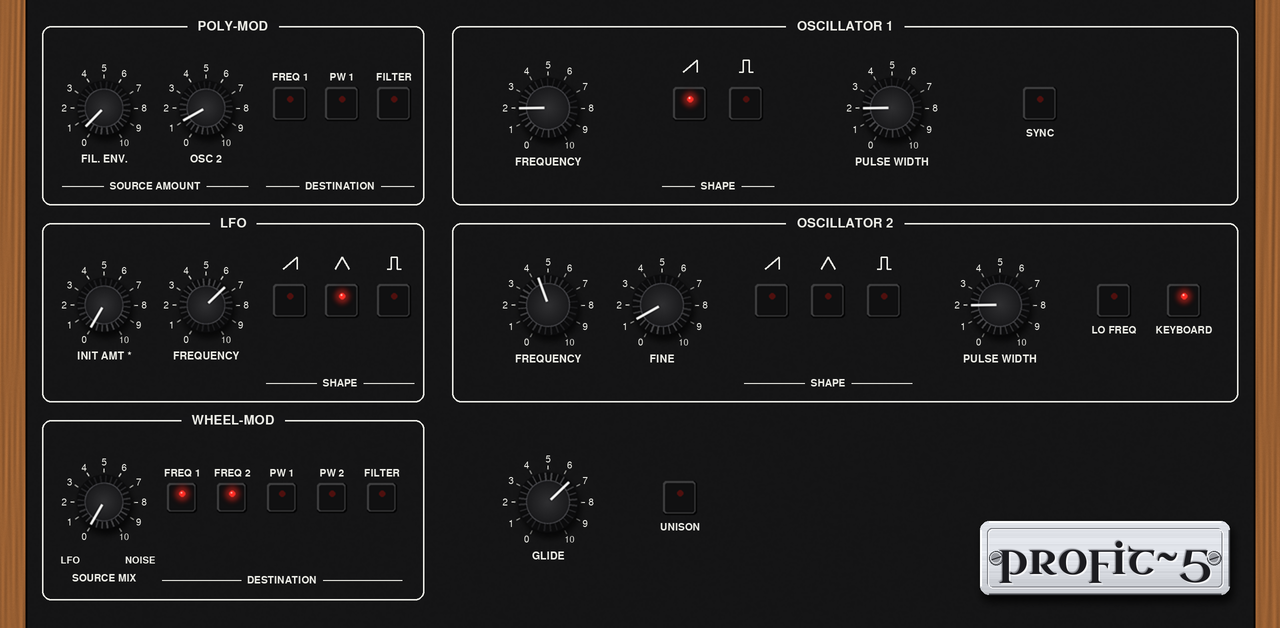
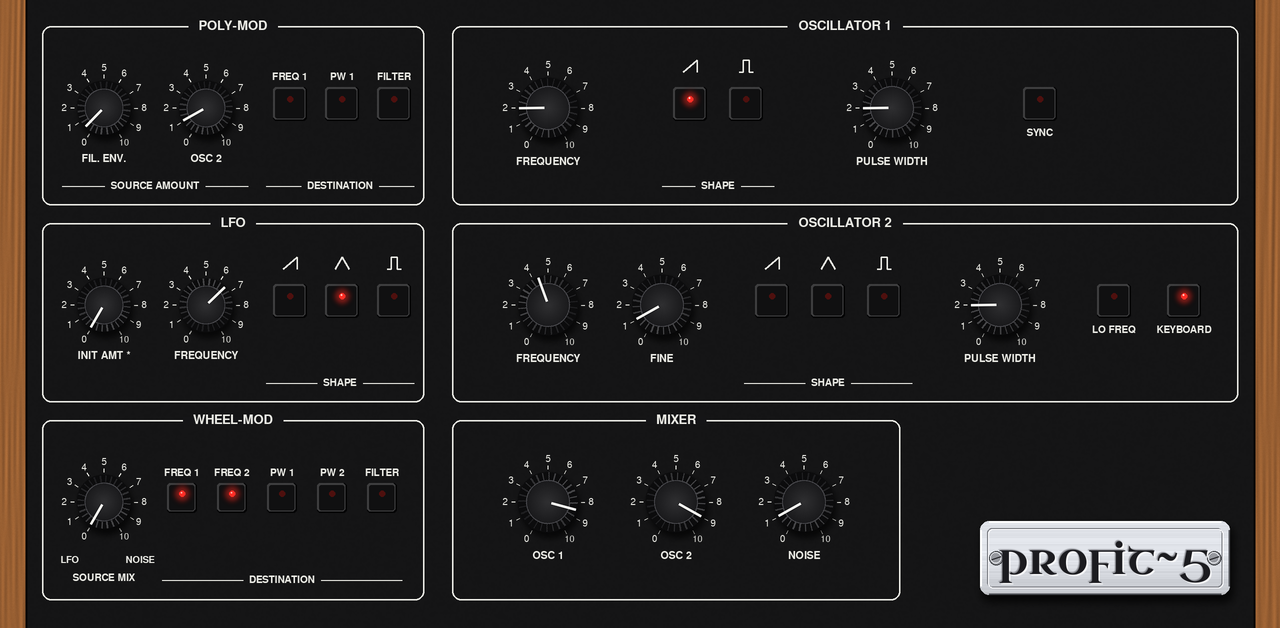
Profit-5 2.0.0: README, release notes, catalog packaging
README: what's new in 2.0 (native screen, Q-Links on every page, named
favourites), status, both install routes, new screenshots, build steps.
docs/release-notes-2.0.0.md. tools/package_catalog.sh makes the two per-CPU
catalog zips with release.py: same folder and .so name as 0.x so the installer
upgrades in place, banks/ and profit5-favourites.dat kept as user data.

Claude-Session: https://claude.ai/code/session_01V7tb5xpYqhNhzXcoof1YZA

diff --git a/tools/make_tui.py b/tools/make_tui.py
@@ -1,5 +1,5 @@
 #!/usr/bin/env python3
-"""Profit-5's native MPC skin: skins/TUI.json + skins/Q-Links.json + the PNGs they use (docs/SDK-PORTING.md, after Welle's layout_tab).
+"""Profit-5's native MPC skin: skins/TUI.json + skins/Q-Links.json + the PNGs they use (after Welle's layout_tab).
 
 The pages are the 0.2.1 skin's own art (vst/art/, drawn by skin/make_skin.py: panel pages, 128-frame knob strips, on/off switch caps)
 with live widgets at the positions vst/layout.conf gives them (layout y = screen y + 86). Three tabs as before; Q-Links in blocks of
@@ -407,7 +407,7 @@ def render_preview(p, bgname, rects_by_sub):
                 txt = "Lead 2_" if key == "fav_name" else p.sample.get(key, "")
                 left = "left" in k["componentData"]["data"].get("textStyle", {}).get("justification", "")
                 d.text((x if left else x + w / 2, y + h / 2), txt, font=font(22 if typ == "Label" else 30), fill=(234, 234, 228), anchor="lm" if left else "mm")
-        for r in rects:
+        for r in ([] if os.environ.get("P5_PREVIEW_CLEAN") else rects):   # P5_PREVIEW_CLEAN=1: no Q-Link frames (README pictures)
             d.rectangle(r, outline=(255, 46, 38), width=2)
         outs.append((subname, img))
     return outs

diff --git a/README.md b/README.md
@@ -6,23 +6,37 @@ a four-pole resonant lowpass, Poly-Mod, a wheel-mod section with LFO and noise, 
 1978 patch sheets. One switch changes the whole voicing between **Rev 2** (SSM chips, stepped controls) and **Rev 4** (CEM-style,
 smooth controls, velocity and aftertouch).
 
-![The Oscillators tab, Rev 2 look](docs/img/skin-rev2-osc.png)
+![Profit-5 on an MPC: the Oscillators page](docs/img/screenshot-osc.png)
 
-**Status: version 0.1.0, a test build.** It builds, passes the offline host test and its own engine, preset and circuit tests, and it loads, plays and
-shows its skin on a Force (2026-10-21, device). CPU on a Force (Gen1, `bench.sh`, 2026-10-21): about 28 % of one core at five voices, p99 31 %, a
-**WARN**: use a few instances, not a dozen. It has not been tried on other models, and many of the knob response
-laws are still measured guesses (see "What is measured, and what isn't"). Expect to hear the character, not a calibrated copy.
+| | |
+|---|---|
+| ![Filter and amplifier](docs/img/screenshot-filter.png) | ![Programmer: programs, imports and favourites](docs/img/screenshot-program.png) |
+
+## New in 2.0
+- **Native MPC screen:** the three panel pages (Oscillators, Filter Amp, Programmer), redrawn with the mixer next to the oscillators and Glide and Unison
+  on the filter page. Knobs, switches and LEDs are live on the panel.
+- **Q-Links on every page:** six sub-tabs in groups of four that follow the panel rows; press a tab key again for its next sub-tab.
+- **Favourites:** `+FAV` names and stores the current sound on an on-screen keyboard; it appears in the MPC's PRESET menu after the programs as
+  `F01 <name>` and is kept in `profit5-favourites.dat`, shared by every project. `-FAV` deletes the one that is picked.
+- **Programmer page:** the program name takes the data wheel and a Q-Link, with step keys either side.
+- One zip carries the 32-bit (Force) and 64-bit builds. Projects saved with 0.1.x and 0.2.x load with their sound, and imported Repro-5 patches stay where they were.
+
+**Status: 2.0.0.** Tested on a Live III (all pages, Q-Links, programs, favourites and naming, sound). Not yet tested: the Force with this version, a real
+project saved with 0.2.1 (old project data is covered by the offline tests), and saving and reloading a 2.0 project on the device. Many knob response
+laws are still measured guesses (see "What is measured, and what isn't"): expect the character, not a calibrated copy.
+
+![Naming a favourite](docs/img/screenshot-keyboard.png)
 
 *Profit-5 is an independent project, not affiliated with or endorsed by Sequential or Dave Smith Instruments. It contains no firmware,
 ROM image, manual, schematic, patch-sheet scan or photograph: everything in it is code and generated art. The patch names are the factory
 program names as published in the patch-sheet booklet; their knob settings were read by hand.*
 
-## Importing Repro-5 patches (0.2.0)
-Put u-he Repro-5 `.h2p` patch files, or `.zip` files of them, in the plugin's `banks` folder (`/sdcard/Synths/sd88me - VST - Profit-5/banks/`;
-the installer keeps it when you upgrade). The plugin reads them once when it loads, so **reload the plugin after adding files**. They are sorted
+## Importing Repro-5 patches
+Put u-he Repro-5 `.h2p` patch files, or `.zip` files of them, in the `banks` folder inside the plugin's folder (the installer keeps it when you
+upgrade). The plugin reads them once when it loads, so **reload the plugin after adding files**. They are sorted
 by file name and join the program list: slots 1-38 are the factory sheets, then `U01`-`U90` are the imported patches (named after the file), then
-free slots named `U.. Init`. The PRESET menu, the arrows on the PROGRAM tab (which show the name), the data wheel, a Q-Link and MIDI program change
-(0-127) all pick from the same list. A status line on the PROGRAM tab says how many were found. Loose files are only read in the banks folder
+free slots named `U.. Init`, then your favourites. The PRESET menu, the step keys and data wheel on the Programmer page, a Q-Link and MIDI program change
+(0-127) all pick from the same list. The Programmer page says how many were found. Loose files are only read in the banks folder
 itself (no sub-folders), a zip may contain folders. The patches are yours: none ships with the plugin.
 
 What carries over: oscillator pitch and shapes, pulse widths, sync, mix, the filter (cutoff, resonance, key tracking as off / half / full),
@@ -36,14 +50,13 @@ and quality stay as you set them. `.syx` dumps are not read yet.
 
 ## Install
 
-Requires a **modded MPC OS standalone device with root shell (SSH) access**; stock MPC OS doesn't allow installing plugins this way, and doing so is
-unofficial: back up first and use at your own risk. MPC OS 3.x (the skin format).
+- **Plugin Manager:** install or update **Profit-5** from the catalog in the Open MPC Plugin Manager.
+- **By hand** (a modded MPC OS device with SSH access; unofficial, back up first and use at your own risk): download the zip for your device from the
+  [releases](https://github.com/sd88me/mpc-vst-profit5/releases), `-mpc-armv7.zip` for the Force and 32-bit MPCs or `-mpc-aarch64.zip` for 64-bit MPCs
+  such as the Live III. Unzip it, copy the folder to the device (`scp -r Profit-5-2.0.0 root@<device-ip>:/tmp/`) and run
+  `ssh root@<device-ip> sh /tmp/Profit-5-2.0.0/install.sh`. Save your project first: the installer stops and restarts MPC. `INSTALL.txt` in the zip has the details.
 
-1. Download the zip for your device from the [releases](https://github.com/sd88me/mpc-vst-profit5/releases): `-mpc-armv7.zip` for Gen1
-   (Force, MPC Live / One / X / Key) and `-mpc-aarch64.zip` for Gen2 (**Gen2 is untested**).
-2. Unzip, copy the folder to the device (`scp -r Profit-5-0.1.0 root@<device-ip>:/tmp/`) and run `ssh root@<device-ip> sh /tmp/Profit-5-0.1.0/install.sh`.
-   Save your project first: the installer stops MPC, copies the plugin into `/sdcard/Synths`, backs up `MPC.settings`, adds the plugin to the list and restarts MPC.
-3. Add **Profit-5** to a track from the instrument plugin browser. `INSTALL.md` in the zip has the manual steps too.
+Then add **Profit-5** to a track from the plugin browser. Upgrading keeps your `banks` folder and favourites; old projects keep their sound.
 
 ## What you get
 
@@ -56,7 +69,7 @@ unofficial: back up first and use at your own risk. MPC OS 3.x (the skin format)
 - **Filter and amplifier:** cutoff, resonance, envelope amount, keyboard tracking, and a four-stage ADSR for each.
 - **Glide** and **master tune**, pitch bend, mod wheel, sustain pedal and program change.
 - **38 factory programs** (banks 1-4 and 5-1 to 5-6 of the original set), in MPC's PRESET menu and on the Program knob.
-- **Three screen tabs** with real-panel layout, printed 0-10 scales and 128-step knob pictures, and seven Q-Link pages.
+- **Three screen pages** with real-panel layout, printed 0-10 scales and 128-step knob pictures, six Q-Link sub-tabs, and favourites in the PRESET menu.
 
 ### Rev 2 and Rev 4
 
@@ -115,7 +128,7 @@ Honest status, offline on x86 (2026-10-21):
 - **Still guessed:** the start of the envelope and LFO ranges, the cutoff span, resonance law, Poly-Mod and Wheel-Mod depths, and a few summing-amp inputs the
   scan doesn't show. Rev 4 is modelled from public descriptions, not from a unit or its schematics.
 - **Known quiet program:** 5-5 Helicopter barely sounds in a short test (its amplifier attack is about 14 s under the datasheet law). To check against a recording.
-- **Not done:** device test and bench, a cassette-dump and `.syx` importer, a second output. A recording of a real unit would let me fit most of the guessed laws.
+- **Not done:** a cassette-dump and `.syx` importer, a second output. A recording of a real unit would let me fit most of the guessed laws.
 
 What's next is in [`docs/HANDOFF.md`](docs/HANDOFF.md). All of this is written up, with the evidence, in [`docs/ENGINE.md`](docs/ENGINE.md), [`docs/FIRMWARE.md`](docs/FIRMWARE.md) and
 [`docs/PRESETS.md`](docs/PRESETS.md).
@@ -124,13 +137,18 @@ What's next is in [`docs/HANDOFF.md`](docs/HANDOFF.md). All of this is written u
 
 | Tab | Contents |
 |---|---|
-| **Oscillators** | Poly-Mod (filter envelope, osc 2, three destinations), LFO (initial amount, frequency, three shapes), Wheel-Mod (source mix, five destinations), oscillator 1 and 2, glide, unison |
-| **Filter Amp** | Mixer, filter (cutoff, resonance, envelope amount, keyboard tracking, half/full, ADSR), amplifier ADSR and release, vintage, master tune, volume, velocity and aftertouch depths |
-| **Programmer** | Program knob and display, voices, unison, quality, rev |
+| **Oscillators** | Poly-Mod (filter envelope, osc 2, three destinations), LFO (initial amount, frequency, three shapes), Wheel-Mod (source mix, five destinations), oscillator 1 and 2, mixer |
+| **Filter Amp** | Glide and unison, filter (cutoff, resonance, envelope amount, keyboard tracking, half/full, ADSR), amplifier ADSR and release, vintage, master tune, volume, velocity and aftertouch depths |
+| **Programmer** | Program name with step keys and the data wheel, imported-patch count, +FAV / -FAV with the naming keyboard, voices, unison, quality, rev |
 
 MIDI: notes with velocity, polyphonic and channel aftertouch, pitch bend (two semitones), CC 1 mod wheel, CC 64 sustain, CC 120 / 123 all off, program change.
 
 ## Build from source
+
+`./build.sh` builds the plugin for the Force (32-bit) and 64-bit MPCs with the MPC plugin builder (`MPC_BUILDER` = its checkout); `./build.sh test` also
+runs the offline host test (`tests/run.sh`: every parameter kind, programs, favourites, a state round trip, projects saved with 0.1.1, 0.2.0 and 0.2.1)
+and the builder's host simulator; `tools/package_catalog.sh` makes the release zips. The screen is `tools/make_tui.py` (`--preview` draws each page).
+The engine and the older builds:
 
 ```
 python3 tools/gen_presets.py && python3 tools/gen_params.py          # src/presets_factory.h, vst/params.json, src/plugin_keys.h
@@ -140,8 +158,7 @@ gcc -O2 -Wall -Wextra -Werror -fsanitize=address,undefined test/test_kernels.c -
 gcc -O1 -Wall -Wextra -Werror -std=c11 -fsanitize=address,undefined test/test_import.c src/p5_import.c -lm && ./a.out                    # .h2p import
 gcc -O1 -std=gnu11 -fsanitize=address,undefined -Isrc -Ianalog -I../mpc-vst-plugins/wrapper test/test_plugin_import.c src/engine.c src/p5_import.c -lm && ./a.out
 python3 tools/spice_check.py                                          # needs ngspice
-../mpc-vst-plugins/tools/test_port.sh vst/vst.json                    # the wrapper's offline host test
-vst/build.sh                                                          # the device build (Docker), or run the "Release (draft)" workflow
+../mpc-vst-plugins/tools/test_port.sh vst/vst.json                    # the 0.x build's offline host test
 ```
 
 Listen offline: `gcc -O2 -std=c11 tools/render_wav.c src/engine.c -lm -o render_wav && ./render_wav 0 2 brass.wav`.
@@ -149,7 +166,7 @@ Listen offline: `gcc -O2 -std=c11 tools/render_wav.c src/engine.c -lm -o render_
 ## Credits and licence
 
 MIT, see `LICENSE`. The analog kernels (`analog/mpc_analog.h`) are shared with the other mpc-vst-plugins ports and written from the published papers
-(Valimaki and Huovilainen, Zavalishin); the SSM kernels in `analog/mpc_analog_p5.h` are new. The skin's lettering is GNU FreeSans. Built on
+(Valimaki and Huovilainen, Zavalishin); the SSM kernels in `analog/mpc_analog_p5.h` are new. The skin's lettering is GNU FreeSans (Liberation Sans, SIL OFL, where FreeSans is not installed). Built on
 [mpc-vst-plugins](https://github.com/sd88me/mpc-vst-plugins), whose wrapper, skin renderer and release tools do the rest. The Minimoog model
 [CA-72](https://github.com/idlefoundry/ca-72) is GPL and none of its code is used here; its method of checking a real-time model against a SPICE simulation
 inspired `circuits/`.

diff --git a/docs/release-notes-2.0.0.md b/docs/release-notes-2.0.0.md
@@ -1,0 +1,21 @@
+# Profit-5 2.0.0
+
+Profit-5 2.0.0 adds a native MPC screen, Q-Links on every page and named favourites. The sound engine is unchanged.
+
+## What's new
+- Native MPC screen: the Oscillators, Filter Amp and Programmer pages with live knobs, switches and LEDs. The mixer now sits next to the
+  oscillators; Glide and Unison moved to the filter page.
+- Q-Links on every page: six sub-tabs in groups of four that follow the panel rows.
+- Favourites: `+FAV` names the current sound on an on-screen keyboard and stores it in the PRESET menu as `F01 <name>`, after the programs;
+  `-FAV` deletes the picked one. They are kept in `profit5-favourites.dat` and shared by every project.
+- Programmer page: the program name takes the data wheel and a Q-Link, with step keys either side, and shows how many Repro-5 patches were imported.
+- One zip holds the 32-bit (Force) and 64-bit builds.
+
+## Compatibility
+- Parameter order and the project format of 0.1.x and 0.2.x are kept, so saved projects load with their sound.
+- Imported Repro-5 patches stay in `banks/`; the installer keeps that folder and the favourites file.
+
+## Tested
+Live III: all pages, Q-Links, programs, the data wheel, favourites and naming, sound.
+Not yet tested: the Force with this version, a real project saved with 0.2.1 on the device (old project data passes the offline tests), and saving and
+reloading a 2.0 project on the device.
